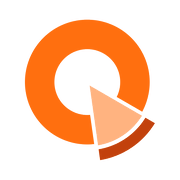
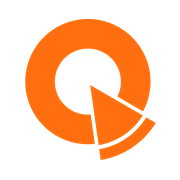
feat(brand): 앱 아이콘을 브랜드 오렌지 한 색으로 + design, spec 갱신
심볼 SVG를 크롬으로 그려 앱 아이콘, Mac 아이콘, 심볼, 파비콘, apple-touch, og를 기존 위치, 크기 그대로 다시 만듦.

Claude-Session: https://claude.ai/code/session_011XUPzQwUTy2QBAmKAmrj3h

diff --git a/docs/spec/04-brand.md b/docs/spec/04-brand.md
@@ -26,7 +26,7 @@
 
 - 화면 기본은 흰 바탕 + 얇은 테두리의 흰 카드(좁은 창은 회색 띠로 구획) + 오렌지(brand) 주 버튼과 무채색. 브랜드 색(오렌지)은 주 버튼과 작은 점, 글자, 결과 카드 체크, 온보딩 챕터 진행 막대에만. 옅은 오렌지(brand-soft)는 O-01 ‘초대받았어요’, 카드 안 보조 버튼
 - 브랜드 색(오렌지) brand: 라이트 #FF6F0F, 다크 #FF8A3D. 심볼 원 고리 색. 옅은 판 brand-soft: #FFF0E6 / #3A2214, 그 위 글자 brand-ink: #B33F00 / #FFC29A. brand 바탕 위 글자는 라이트에서 흰 글자, 다크에서 어두운 글자. 라이트의 흰 글자 대비는 2.8:1로 WCAG AA(4.5:1)에 못 미치는 걸 알고 씀(2026-10-25 결정, 당근처럼 쨍한 오렌지 우선). 그래서 e2e axe는 주 버튼과 달성 배지의 color-contrast만 예외(`e2e/axe.ts`), 나머지는 그대로 검사
-- 2026-10-25 브랜드 색을 크림슨 분홍(#D92B4A)에서 비비드 오렌지로 바꿈(카페 브랜드와 비슷해 보이고 오류 빨강과도 가까워서). 앱 아이콘 세 색도 오렌지 계열로(고리 #FF6F0F, 조각 #FFB380, 크러스트 #C2410C), 모양은 그대로
+- 2026-10-25 브랜드 색을 크림슨 분홍(#D92B4A)에서 비비드 오렌지로 바꿈(카페 브랜드와 비슷해 보이고 오류 빨강과도 가까워서). 앱 아이콘은 브랜드 색 한 가지로(고리, 조각, 크러스트 모두 #FF6F0F), 모양은 그대로
 - brand 쓰는 곳: 워드마크(앱 안 한 화면 1개), 주 버튼, 달성 배지, 새 알림 점, 온보딩 챕터 진행 막대(채움)(순자산 차트 끝점은 없어짐)
 - brand-soft 쓰는 곳: 달력의 오늘 날짜 칸만. 제안 카드 머리와 월말 정리 띠는 무채색(surface-alt)
 - 브랜드 색을 쓰지 않는 곳: 카드, 띠, 패널 같은 넓은 면, 보조 버튼, 숫자 알약(이번 달 탭 옆 제안 수, 우선순위 순번은 ink), 변화 알약(기본 회색 surface-alt. 월별 저축과 순자산 차트의 변화 알약만 포인트색: 계획 100% 이상·증가 초록, 미만·감소 살구, 빨강 없음), 온보딩 밖 진행 막대(ink), 본문 글자색, 순자산 차트 면(ink 옅은 면)
@@ -63,9 +63,9 @@
 
 **앱 아이콘**
 
-- 평면 파이 차트: 두꺼운 원 고리(brand #FF6F0F)와 오른쪽 아래로 빠져나온 파이 조각 하나. 조각은 끝이 원 가운데를 향한 삼각형 몸통(연주황 #FFB380)과 얇은 틈 뒤 둥근 크러스트 띠(진주황 #C2410C). 그라데이션, 그림자, 입체감, 글자 없음. 흰 바탕, 그림 정가운데, 긴 쪽이 아이콘의 약 78%. 뜻: 둘이 함께 키운 자산파이에서 떼어 낸 한 조각
+- 평면 파이 차트: 두꺼운 원 고리(brand #FF6F0F)와 오른쪽 아래로 빠져나온 파이 조각 하나. 조각은 끝이 원 가운데를 향한 삼각형 몸통과 얇은 틈 뒤 둥근 크러스트 띠. 고리, 몸통, 크러스트 모두 `brand` 한 색(#FF6F0F)이고 흰 틈으로만 나뉨. 그라데이션, 그림자, 입체감, 글자 없음. 흰 바탕, 그림 정가운데, 긴 쪽이 아이콘의 약 78%. 뜻: 둘이 함께 키운 자산파이에서 떼어 낸 한 조각
 - 파일(디자인 시스템 Brand): app-icon.png(1024, 흰 바탕, 그림자 없음, 그림 정가운데), app-icon-macos.png(Mac 독용), symbol.png(같은 파이 차트, 바탕 없음 512), favicon-32/48.png(파이 차트), apple-touch-icon.png(180)
-- 상태: 확정(2026-10-18 케이크 조각에서 파이 차트로 교체, 2026-10-25 색만 오렌지 계열로). 설치 파일용 .icns와 .ico, macOS 트레이 템플릿(한 색 실루엣)은 개발할 때 만듦
+- 상태: 확정(2026-10-18 케이크 조각에서 파이 차트로 교체, 2026-10-25 브랜드 오렌지 한 색으로). 설치 파일용 .icns와 .ico, macOS 트레이 템플릿(한 색 실루엣)은 개발할 때 만듦
 
 **심볼**
 

diff --git a/docs/design/assets/Brand.md b/docs/design/assets/Brand.md
@@ -5,14 +5,14 @@
 - `logo-cherry.svg`: 워드마크 기본(`brand` #FF6F0F, 심볼 원 고리 색). 흰 바탕과 다크 바탕 모두. T와 w 사이는 다른 글자 사이와 같은 간격.
 - `logo-white.svg`: 오렌지 바탕이나 사진 위.
 - `logo-black.svg`: 한 가지 색만 되는 인쇄물.
-- 앱 아이콘 그림: 평면 파이 차트: 두꺼운 원 고리(`brand` #FF6F0F)와 오른쪽 아래로 빠져나온 파이 조각 하나. 조각은 끝이 원 가운데를 향한 삼각형 몸통(연주황 #FFB380)과 얇은 틈 뒤 둥근 크러스트 띠(진주황 #C2410C). 그라데이션, 그림자, 입체감, 글자 없음. 바탕 흰색, 그림은 아이콘 정가운데, 긴 쪽이 아이콘의 약 78%.
+- 앱 아이콘 그림: 평면 파이 차트: 두꺼운 원 고리(`brand` #FF6F0F)와 오른쪽 아래로 빠져나온 파이 조각 하나. 조각은 끝이 원 가운데를 향한 삼각형 몸통과 얇은 틈 뒤 둥근 크러스트 띠. 고리, 몸통, 크러스트 모두 `brand` 한 색(#FF6F0F)이고 흰 틈으로만 나뉨. 그라데이션, 그림자, 입체감, 글자 없음. 바탕 흰색, 그림은 아이콘 정가운데, 긴 쪽이 아이콘의 약 78%.
 - `app-icon.png`: 앱 아이콘 원본(1024px, 꽉 찬 정사각형, 흰 바탕). iOS·Android는 이 파일을 줄여서 씀. 모서리는 각 OS가 깎음.
 - `app-icon-macos.png`: Mac 독용(1024px). Mac은 모서리를 깎아 주지 않아 둥근 사각형(824px), 여백, 그림자를 파일에 넣음.
-- `symbol.svg`: 심볼 원본(벡터, 세 색 #FF6F0F, #FFB380, #C2410C). 아래 PNG는 모두 이 SVG에서 만듦.
+- `symbol.svg`: 심볼 원본(벡터, 한 색 #FF6F0F). 아래 PNG는 모두 이 SVG를 크롬으로 그려서 만듦(기존 PNG와 같은 위치, 크기).
 - `symbol.png`: 심볼. 앱 아이콘과 같은 파이 차트, 바탕 없음(512px). 작은 자리(알림, 프로필 자리, 트레이, SNS 공유 이미지, 랜딩).
 - `favicon-32.png`, `favicon-48.png`: 브라우저 탭 아이콘(파이 차트, 바탕 없음). `apple-touch-icon.png`: 홈 화면에 추가할 때(180px, 앱 아이콘과 같음).
 - 체리 타르트 그림(장면 그림·영상)은 모두 없앰(2026-10-19). O-01 시작·A-02 로그인 첫 화면 장면 자리에는 영어 워드마크(`Wordmark`, 높이 56px 히어로) + 캐치프레이즈를 크게 넣어 당당한 첫인상을 준다.
 - 화면 안 로고는 `hg-wordmark`(마스크, `brand` 칠, 기본 높이 24px, 큰 자리 40px, 로그인 첫 화면 히어로 56px, 트레이 20px).
-- 금지: 다시 그리기, 늘이기, 기울이기, 색 바꾸기(워드마크는 브랜드 오렌지, 흰색, 검정만), 그림자, 외곽선. 앱 아이콘에 글자 넣기. 파이 조각에 장식(점, 구멍, 별) 더하기. 세 부분의 색 바꾸기.
+- 금지: 다시 그리기, 늘이기, 기울이기, 색 바꾸기(워드마크는 브랜드 오렌지, 흰색, 검정만), 그림자, 외곽선. 앱 아이콘에 글자 넣기. 파이 조각에 장식(점, 구멍, 별) 더하기. 브랜드 색 말고 다른 색 넣기.
 - 여백: 로고 높이의 1/2 이상. 최소 높이 워드마크 16px, 심볼 16px.
-- 상태: 앱 아이콘 확정(2026-10-13), 2026-10-25 색만 오렌지 계열로 바꿈(모양 그대로, PNG는 기존 파일의 세 색을 바꿔 다시 만듦). 설치 파일용 .icns/.ico와 macOS 트레이 템플릿(한 색 실루엣)은 개발할 때 만듦.
+- 상태: 앱 아이콘 확정(2026-10-13), 2026-10-25 브랜드 오렌지 한 색으로 바꿈(모양 그대로). 설치 파일용 .icns/.ico와 macOS 트레이 템플릿(한 색 실루엣)은 개발할 때 만듦.
